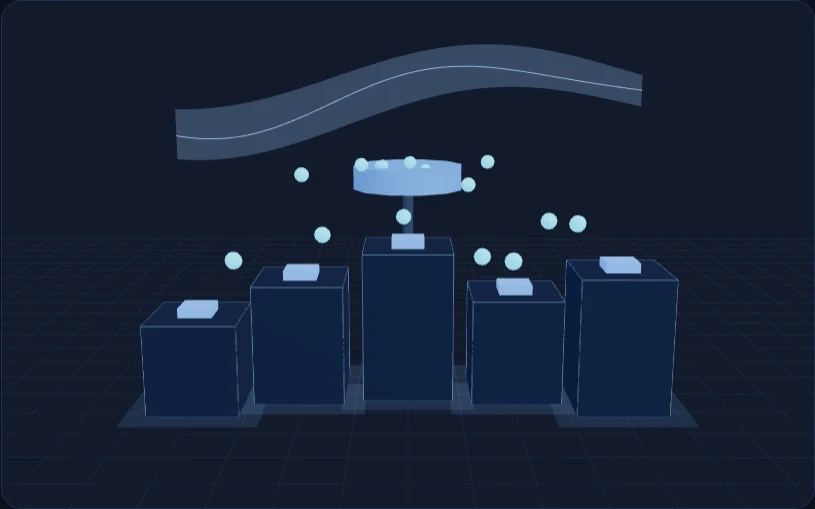
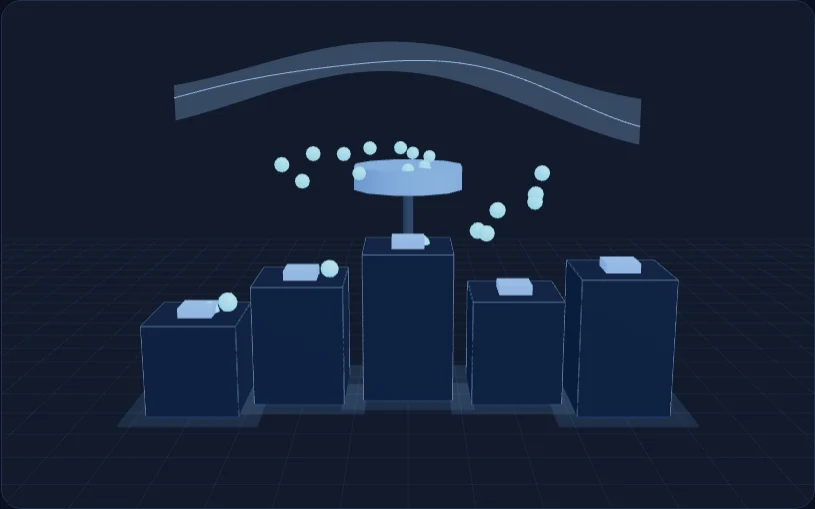
fix: 브라우저 검증에서 찾은 3D·웹폰트 결함 수정
설계서 대비 구현을 실제 브라우저에서 검증하다 세 가지를 찾아 고쳤다.

웹폰트가 첫 페인트를 막고 있었다
- stylesheet로 로드해 CDN이 3초 늦으면 첫 페인트도 3.3초 늦었다 (측정값)
- media="print"로 받아 렌더를 막지 않고, 다 받은 뒤 all로 바꿔 적용하도록 변경
- CDN 즉시 응답 304ms / 3초 지연 304ms / 완전 차단 316ms 으로 평탄해졌다
- 못 받으면 시스템 한글 글꼴로 남고 본문은 그대로 읽힌다. 회귀 테스트 추가

오프스크린에서 장면을 통째로 떼어 내고 있었다
- 스크롤할 때마다 WebGL 컨텍스트를 새로 만들고 있었다
- 설계대로 캔버스는 두고 frameloop만 재우도록 변경
- 측정: 화면 안 61fps, 화면 밖 프레임 증가 0, 다시 들어오면 이어서 진행

데이터 흐름이 주석과 달랐다
- 주석은 전력·연료·용수 3종인데 실제로는 4줄이 흐르고 있었다
- 3종 × 알갱이 2개로 정리하고, 위상을 전체에 고르게 나눠 몰림도 없앴다

설계와 다르게 한 결정 4건(스크롤 카메라 이동 미구현 포함)을 부록 0에 추가 기록했다.

Claude-Session: https://claude.ai/code/session_01Sw2iLu4VyVtqBzBsYXTEBb

diff --git a/app/components/hero-scene/HeroScene.tsx b/app/components/hero-scene/HeroScene.tsx
@@ -15,9 +15,10 @@ import { Canvas, useFrame, useThree } from "@react-three/fiber";
 import { useEffect, useMemo, useRef, useState } from "react";
 import * as THREE from "three";
 
-const PULSES_PER_PLANT = 4;
-/** 전력 · 연료 · 용수. 대시보드에서 쓰는 색 구분을 그대로 씁니다. */
-const STREAM_OFFSETS = [-0.2, -0.07, 0.07, 0.2];
+/** 전력 · 연료 · 용수. 공장마다 이 세 줄기가 허브로 흐릅니다. */
+const STREAM_OFFSETS = [-0.19, 0, 0.19];
+/** 한 줄기에 알갱이 두 개를 시차를 두고 띄워, 흐름이 끊겨 보이지 않게 합니다. */
+const PULSES_PER_STREAM = 2;
 
 type Palette = {
   line: string;
@@ -151,6 +152,7 @@ function DataPulses({
   const meshRef = useRef<THREE.InstancedMesh>(null);
   const dummy = useMemo(() => new THREE.Object3D(), []);
 
+  /** 공장 5곳 × 에너지 3종 = 곡선 15개. 각 곡선 위를 알갱이 두 개가 지나갑니다. */
   const curves = useMemo(
     () =>
       plants.flatMap((plant) =>
@@ -165,15 +167,20 @@ function DataPulses({
       ),
     [plants],
   );
+  const pulseCount = curves.length * PULSES_PER_STREAM;
 
   useFrame(({ clock }) => {
     const mesh = meshRef.current;
     if (!mesh) return;
 
-    for (let index = 0; index < curves.length; index += 1) {
-      const offset = (index % PULSES_PER_PLANT) * 0.33 + Math.floor(index / PULSES_PER_PLANT) * 0.11;
-      const t = (clock.elapsedTime * 0.22 + offset) % 1;
-      curves[index].getPointAt(t, dummy.position);
+    for (let index = 0; index < pulseCount; index += 1) {
+      /*
+       * 알갱이를 곡선에 번갈아 배치하고 위상을 전체에 고르게 나눕니다. 이렇게 하면
+       * 한 곡선 위의 두 알갱이가 정확히 반 주기 떨어져, 흐름이 끊기지도 몰리지도 않습니다.
+       */
+      const curve = curves[index % curves.length];
+      const t = (clock.elapsedTime * 0.22 + index / pulseCount) % 1;
+      curve.getPointAt(t, dummy.position);
       // 허브에 가까워질수록 작아져, 모여서 하나로 들어가는 것으로 읽히게 합니다.
       const scale = 0.115 * (1 - t * 0.4);
       dummy.scale.setScalar(scale);
@@ -184,7 +191,7 @@ function DataPulses({
   });
 
   return (
-    <instancedMesh ref={meshRef} args={[undefined, undefined, curves.length]}>
+    <instancedMesh ref={meshRef} args={[undefined, undefined, pulseCount]}>
       <sphereGeometry args={[1, 8, 6]} />
       <meshStandardMaterial
         color={palette.cyan}
@@ -295,8 +302,11 @@ function SceneStats() {
   const frames = useRef(0);
 
   useFrame(() => {
-    // 첫 프레임에는 draw call이 아직 0이라, 몇 프레임 돌린 뒤에 잽니다.
     frames.current += 1;
+    const store = window as Window & { __heroSceneStats?: { frames?: number } };
+    if (store.__heroSceneStats) store.__heroSceneStats.frames = frames.current;
+
+    // 첫 프레임에는 draw call이 아직 0이라, 몇 프레임 돌린 뒤에 잽니다.
     if (frames.current !== 5) return;
 
     let triangles = 0;
@@ -316,6 +326,7 @@ function SceneStats() {
       triangles: Math.round(triangles),
       meshes,
       drawCalls: gl.info.render.calls,
+      frames: frames.current,
     };
   });
 
@@ -336,7 +347,13 @@ function ParallaxRig({ children }: { children: React.ReactNode }) {
   return <group ref={group}>{children}</group>;
 }
 
-export default function HeroScene({ plants }: { plants: string[] }) {
+export default function HeroScene({
+  plants,
+  active,
+}: {
+  plants: string[];
+  active: boolean;
+}) {
   /*
    * 이 컴포넌트는 브라우저에서만 불러오므로 첫 렌더에서 바로 토큰을 읽습니다.
    * effect에서 setState로 채우면 렌더가 한 번 더 돌고, 그 사이에 색 없는 장면이 그려집니다.
@@ -360,6 +377,8 @@ export default function HeroScene({ plants }: { plants: string[] }) {
   return (
     <Canvas
       camera={{ position: [0, 3.9, 11.2], fov: 30 }}
+      /* 화면 밖에서는 루프를 재웁니다. 마지막 프레임은 캔버스에 그대로 남습니다. */
+      frameloop={active ? "always" : "never"}
       dpr={[1, 1.75]}
       gl={{ antialias: true, alpha: true }}
       style={{ width: "100%", height: "100%" }}

diff --git a/app/layout.tsx b/app/layout.tsx
@@ -14,6 +14,22 @@ export const viewport: Viewport = {
   ],
 };
 
+/*
+ * 웹폰트 스타일시트는 기본적으로 렌더를 막습니다. CDN이 느리면 그만큼 첫 화면이
+ * 비어 있게 되는데(3초 지연 시 첫 페인트도 3.3초), 글꼴 하나 때문에 글을 못 읽게
+ * 둘 수는 없습니다.
+ *
+ * 그래서 `media="print"`로 받아 렌더를 막지 않게 하고, 다 받은 뒤 `all`로 바꿔
+ * 적용합니다. 받는 동안에는 본문 글꼴 스택의 시스템 한글 글꼴이 쓰이고,
+ * 자바스크립트가 없으면 그대로 시스템 글꼴로 남습니다. 둘 다 읽는 데 문제가 없습니다.
+ */
+const SWAP_WEBFONTS = `
+for (const link of document.querySelectorAll('link[data-webfont]')) {
+  if (link.sheet) { link.media = 'all'; continue; }
+  link.addEventListener('load', function () { this.media = 'all'; }, { once: true });
+}
+`.trim();
+
 export default function RootLayout({
   children,
 }: Readonly<{
@@ -22,27 +38,27 @@ export default function RootLayout({
   return (
     <html lang="ko">
       <body>
-        {/*
-          React가 stylesheet 링크를 head로 올려 줍니다.
-          Pretendard는 본문에 실제로 쓰인 글자만 내려받는 동적 서브셋이라,
-          한글 웹폰트를 통째로 받는 것보다 훨씬 가볍습니다.
-        */}
         <link rel="preconnect" href="https://cdn.jsdelivr.net" />
-        <link
-          rel="stylesheet"
-          href="https://cdn.jsdelivr.net/gh/orioncactus/pretendard@v1.3.9/dist/web/variable/pretendardvariable-dynamic-subset.min.css"
-        />
         <link rel="preconnect" href="https://fonts.googleapis.com" />
         <link rel="preconnect" href="https://fonts.gstatic.com" crossOrigin="anonymous" />
         {/*
-          no-page-custom-font는 Pages Router에서 페이지마다 글꼴을 넣는 것을 막는 규칙입니다.
-          여기는 App Router의 루트 레이아웃이라 모든 페이지에 한 번만 들어갑니다.
+          Pretendard는 본문에 실제로 쓰인 글자만 내려받는 동적 서브셋이라,
+          한글 웹폰트를 통째로 받는 것보다 훨씬 가볍습니다.
         */}
+        <link
+          rel="stylesheet"
+          media="print"
+          data-webfont=""
+          href="https://cdn.jsdelivr.net/gh/orioncactus/pretendard@v1.3.9/dist/web/variable/pretendardvariable-dynamic-subset.min.css"
+        />
         {/* eslint-disable-next-line @next/next/no-page-custom-font */}
         <link
           rel="stylesheet"
+          media="print"
+          data-webfont=""
           href="https://fonts.googleapis.com/css2?family=IBM+Plex+Mono:wght@400;500;600&display=swap"
         />
+        <script dangerouslySetInnerHTML={{ __html: SWAP_WEBFONTS }} />
         {children}
       </body>
     </html>

diff --git a/app/components/hero-scene/index.tsx b/app/components/hero-scene/index.tsx
@@ -9,7 +9,7 @@
 
 import { useEffect, useRef, useState, type ComponentType } from "react";
 
-type SceneProps = { plants: string[] };
+type SceneProps = { plants: string[]; active: boolean };
 
 function canRunScene(): boolean {
   // matchMedia가 없는 환경(오래된 브라우저, 테스트 DOM)에서는 켜지 않습니다.
@@ -41,6 +41,9 @@ export default function HeroSceneGate({
   caption: string;
 }) {
   const [Scene, setScene] = useState<ComponentType<SceneProps> | null>(null);
+  /** 한 번이라도 화면에 들어왔는가. 들어온 뒤에는 계속 붙여 둡니다. */
+  const [seen, setSeen] = useState(false);
+  /** 지금 화면에 있는가. 렌더 루프를 돌릴지 정합니다. */
   const [visible, setVisible] = useState(false);
   const frame = useRef<HTMLDivElement>(null);
 
@@ -72,13 +75,20 @@ export default function HeroSceneGate({
     };
   }, []);
 
-  // 화면 밖으로 나가면 렌더 루프를 멈춥니다.
+  /*
+   * 화면 밖에서는 렌더 루프만 멈추고 캔버스는 그대로 둡니다.
+   * 통째로 떼면 스크롤할 때마다 WebGL 컨텍스트를 다시 만들게 되는데,
+   * 그 비용이 루프를 재우는 것보다 훨씬 큽니다.
+   */
   useEffect(() => {
     const node = frame.current;
     if (!node || !Scene) return;
 
     const observer = new IntersectionObserver(
-      ([entry]) => setVisible(entry.isIntersecting),
+      ([entry]) => {
+        setVisible(entry.isIntersecting);
+        if (entry.isIntersecting) setSeen(true);
+      },
       { rootMargin: "120px" },
     );
     observer.observe(node);
@@ -95,9 +105,9 @@ export default function HeroSceneGate({
             <img src={poster} alt={caption} loading="lazy" decoding="async" />
           </picture>
         )}
-        {Scene && (
+        {Scene && seen && (
           <div className={`hero-scene-canvas${visible ? " is-live" : ""}`}>
-            {visible && <Scene plants={plants} />}
+            <Scene plants={plants} active={visible} />
           </div>
         )}
       </div>

diff --git a/app/readability.test.ts b/app/readability.test.ts
@@ -87,3 +87,29 @@ describe("글자 크기", () => {
     ]);
   });
 });
+
+describe("웹폰트", () => {
+  const layout = read("app/layout.tsx");
+  const stylesheet = read("app/globals.css");
+
+  it("글꼴 때문에 첫 화면이 비어 있지 않게 한다", () => {
+    // 렌더를 막는 stylesheet로 두면 CDN이 3초 늦을 때 첫 페인트도 3초 늦습니다.
+    const links = [...layout.matchAll(/<link\b[^>]*rel="stylesheet"[^>]*\/>/gs)].map((m) => m[0]);
+
+    expect(links.length).toBeGreaterThan(0);
+    for (const link of links) {
+      expect(link).toContain('media="print"');
+      expect(link).toContain("data-webfont");
+    }
+    // 다 받은 뒤 실제로 적용하는 코드가 함께 있어야 합니다.
+    expect(layout).toContain("link[data-webfont]");
+    expect(layout).toContain("media = 'all'");
+  });
+
+  it("글꼴을 못 받아도 한글이 시스템 글꼴로 남는다", () => {
+    const fontFamily = /body\s*\{[^}]*font-family:\s*([^;]+);/s.exec(stylesheet)?.[1] ?? "";
+
+    expect(fontFamily).toContain("Apple SD Gothic Neo");
+    expect(fontFamily).toContain("Malgun Gothic");
+  });
+});

diff --git a/docs/superpowers/2026-09-12-portfolio-v2-design.md b/docs/superpowers/2026-09-12-portfolio-v2-design.md
@@ -760,6 +760,9 @@ Phase 0~5를 모두 구현했습니다. 브랜치 `claude/optimistic-maxwell-p7c
 | 3D는 첫 화면(hero) 안에 | 첫 화면 바로 아래의 독립 띠로 분리 | 첫 화면의 글과 수치를 가리지 않고, LCP 후보에서 빠진다 |
 | 공장 블록 hover 툴팁 | 넣지 않음 | 장면 폭이 좁아 라벨이 읽히지 않는다. 공장 이름은 캡션과 대체 텍스트에 넣었다 |
 | 포스터 1장 | 밝은 화면·어두운 화면 2장 | 다크 모드에서 밝은 포스터만 남으면 페이지와 따로 논다 |
+| 스크롤에 따라 카메라가 물러남 | 넣지 않음 | 장면이 전체 화면이 아니라 띠라 필요가 줄었고, 옆 글을 읽는 동안 화면이 움직이면 방해가 된다. 포인터 시차만 남겼다 |
+| 웹폰트를 stylesheet로 로드 | `media="print"`로 받아 렌더를 막지 않고, 다 받은 뒤 적용 | 검증에서 CDN이 3초 늦으면 첫 페인트도 3.3초 늦는 것을 확인했다. 지금은 CDN 상태와 무관하게 약 300ms |
+| 오프스크린에서 장면을 떼어 냄 | 캔버스는 두고 렌더 루프만 재움 | 스크롤할 때마다 WebGL 컨텍스트를 다시 만드는 비용이 루프를 재우는 것보다 크다 |
 
 ## 부록 A. 원장 이식 매핑 (v1.2 → content/ledger/)
 
